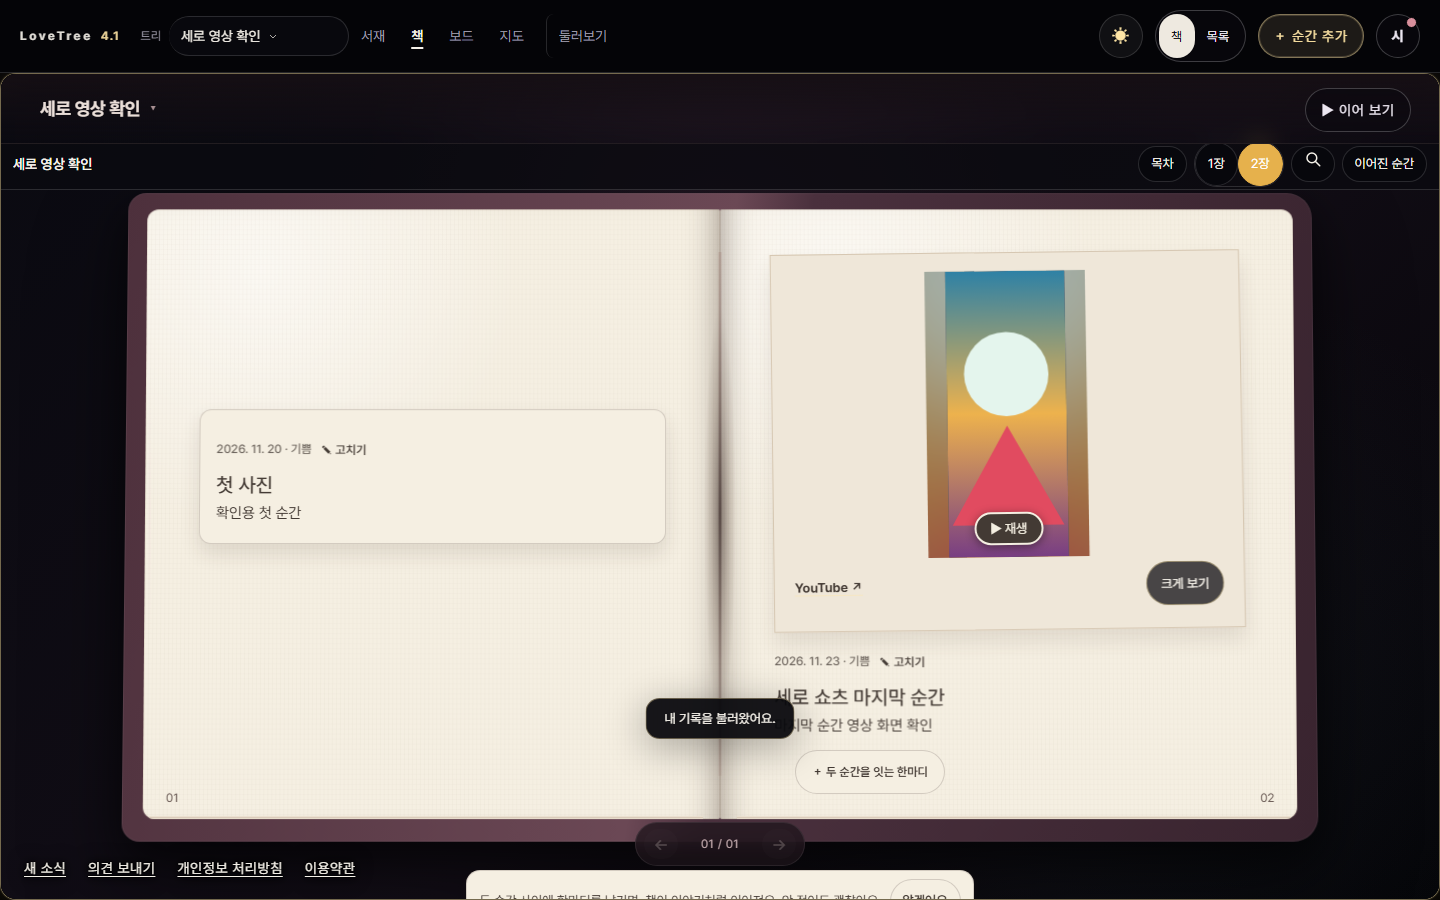
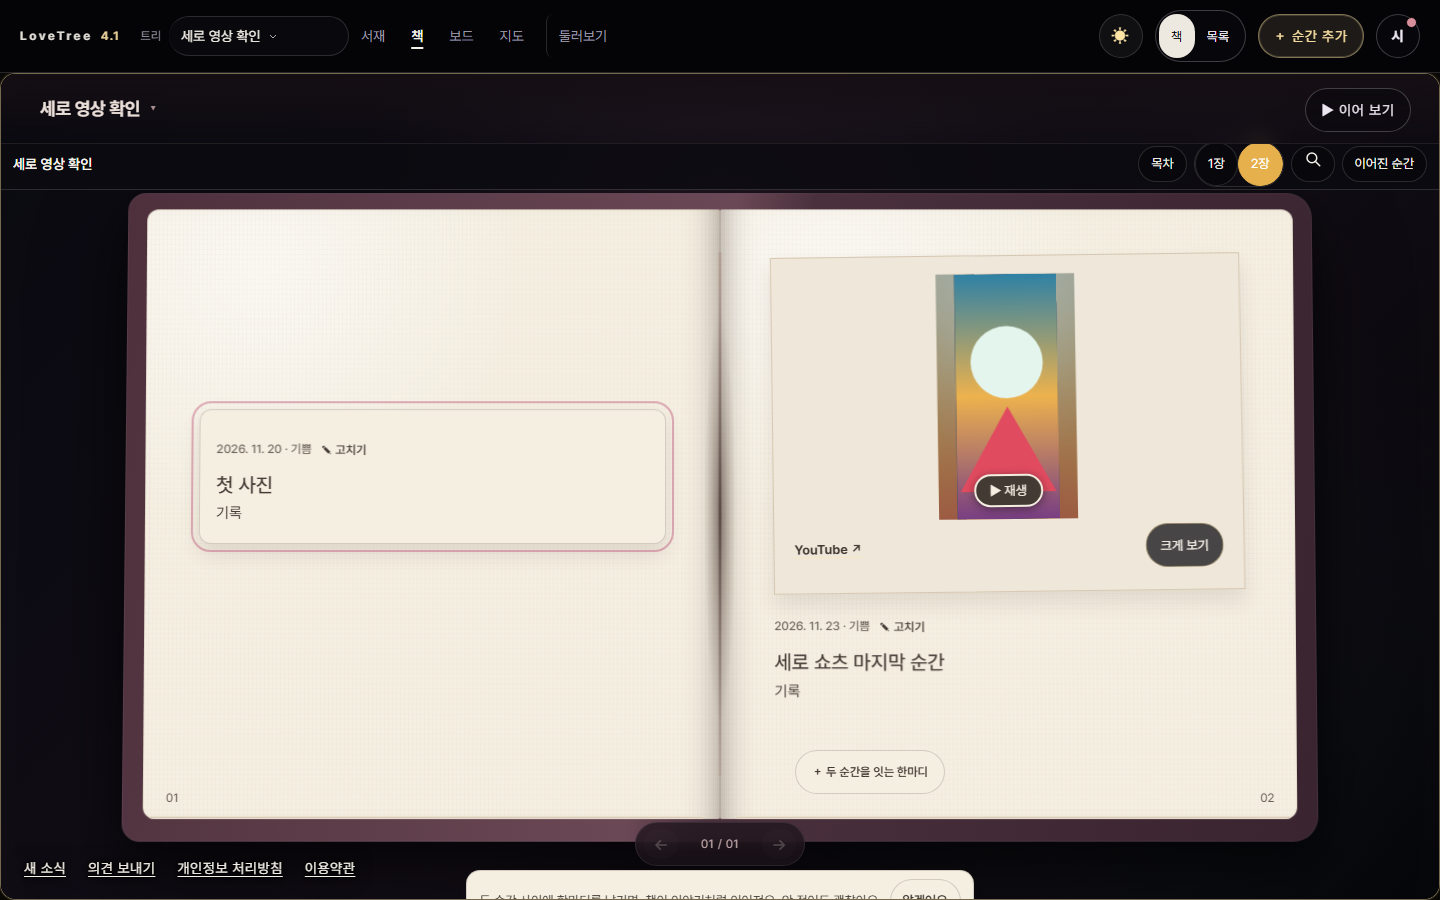
#1084 흐린 배경을 별도 그림으로 구성해 화면 규칙을 지킨다

diff --git a/public/v41/views/book/book-usability.css b/public/v41/views/book/book-usability.css
@@ -91,9 +91,10 @@ html[data-v41-screen=book] .yt-play img{display:block;width:100%;height:100%;obj
 html[data-v41-screen=book] .yt-play.is-vertical{width:auto;height:clamp(240px,52vh,400px);max-width:100%;aspect-ratio:9/16;margin:0 auto}
 /* #1084: 세로 쇼츠의 가로 썸네일에 내장된 회색 여백은 흐린 배경 뒤로 가린다. */
 html[data-v41-screen=book] .yt-play.is-remote-vertical{overflow:hidden;isolation:isolate}
-html[data-v41-screen=book] .yt-play.is-remote-vertical::before{content:"";position:absolute;inset:-18px;background-image:var(--lt-book-vertical-bg);background-size:cover;background-position:center;filter:blur(18px) brightness(.72);transform:scale(3.6);pointer-events:none}
+html[data-v41-screen=book] .yt-play.is-remote-vertical .yt-vertical-backdrop{position:absolute;inset:-18px;overflow:hidden;filter:blur(18px) brightness(.72);transform:scale(3.6);pointer-events:none}
 html[data-v41-screen=book] .yt-play.is-vertical img{object-fit:contain}
-html[data-v41-screen=book] .yt-play.is-remote-vertical img{object-fit:cover;clip-path:inset(0 13%)}
+html[data-v41-screen=book] .yt-play.is-remote-vertical > img{object-fit:cover;clip-path:inset(0 13%)}
+html[data-v41-screen=book] .yt-play.is-remote-vertical .yt-vertical-backdrop img{object-fit:cover;clip-path:none}
 html[data-v41-screen=book] .yt-play .yt-play-label{position:absolute;left:50%;bottom:12px;transform:translateX(-50%);white-space:nowrap;padding:7px 14px;border-radius:var(--lt-r-pill);border:2px solid var(--lt-paper);background:var(--lt-ink);color:var(--lt-paper);box-shadow:0 2px 10px rgba(0,0,0,.42);font-size:13px}
 html[data-v41-screen=book] .yt-placeholder{display:grid;place-items:center;width:100%;height:100%;background:var(--lt-paper);color:var(--lt-ink)}
 /* #635 PR B: 썸네일이 없거나 깨진 영상 칸은 제목 글 카드로 대신한다(회색·빈 상자 금지). 재생 단추 안에서 카드가 칸을 채운다. */

diff --git a/public/v41/media-preview.js b/public/v41/media-preview.js
@@ -305,7 +305,7 @@ function markup(url,title='',mediaMetadata=null,momentId='',context=null,momentM
  const body=auto
   // 내 기록: 썸네일을 처음부터 보여 준다(no-referrer·lazy). 재생 표시는 썸네일 전체를 덮는 단추라
   // 썸네일 아무 곳이나 눌러도 그 자리에서 재생한다. autoplay 는 누른 뒤 만들어지는 embed 주소에만 있다.
-  ?'<figure class="lt-yt-preview"'+(vertical?' style="--lt-vertical-thumb:url(&quot;'+esc(previewSrc)+'&quot;)"':'')+' data-lt-thumb-host><img src="'+esc(previewSrc)+'" alt="'+esc(title||'YouTube 영상 썸네일')+'"'+previewFallback+' referrerpolicy="no-referrer" loading="lazy" decoding="async"><button type="button" class="lt-yt-play" data-lt-play aria-label="바로 재생"><span aria-hidden="true">▶</span></button></figure>'+cached
+  ?'<figure class="lt-yt-preview" data-lt-thumb-host>'+(vertical?'<span class="lt-vertical-backdrop" aria-hidden="true"><img src="'+esc(previewSrc)+'" alt="" referrerpolicy="no-referrer" loading="lazy" decoding="async"></span>':'')+'<img src="'+esc(previewSrc)+'" alt="'+esc(title||'YouTube 영상 썸네일')+'"'+previewFallback+' referrerpolicy="no-referrer" loading="lazy" decoding="async"><button type="button" class="lt-yt-play" data-lt-play aria-label="바로 재생"><span aria-hidden="true">▶</span></button></figure>'+cached
   :(linkCard?linkCard:(canLoad?'<button type="button" data-lt-load>'+esc(m.loadLabel)+'</button>':'<span>'+esc(m.label)+'</span>')+cached);
  const status=compact?'':(auto?'재생을 누르면 여기서 바로 재생해요.':(canLoad?'불러오기를 누르면 원본 사이트에 연결됩니다.':'원본 사이트에서 확인할 수 있어요.'));
  // #393 2: 크게 보기 — 영상을 어두운 깔개 위 화면 가운데 크게 연다(바깥 클릭·Esc로 복귀).

diff --git a/public/v41/views/book/book-extra.js b/public/v41/views/book/book-extra.js
@@ -305,8 +305,8 @@ momentContent=function(m,compact=false){
     :'<img src="'+t(remoteThumb)+'" alt="'+t(safe.title||'YouTube 영상 썸네일')+'"'+thumbFallback+' referrerpolicy="no-referrer" loading="lazy" decoding="async">';
    // YouTube 출처는 링크 한 곳에만 남긴다.
    const piece='<div class="clipping moment" data-moment="'+t(safe.id)+'">'+
-    '<button type="button" class="yt-play'+(vertical?' is-vertical':'')+(vertical&&!thumb?' is-remote-vertical':'')+'"'+(vertical&&!thumb?' style="--lt-book-vertical-bg:url(&quot;'+t(remoteThumb)+'&quot;)"':'')+' data-lt-thumb-host data-yt-play="'+t(media.videoId)+'" data-yt-start="'+t(media.startSeconds||0)+'" data-yt-end="'+t(m.endSeconds||'')+'"'+(vertical?' data-yt-vertical="1"':'')+'>'+
-    face+
+    '<button type="button" class="yt-play'+(vertical?' is-vertical':'')+(vertical&&!thumb?' is-remote-vertical':'')+'"'+' data-lt-thumb-host data-yt-play="'+t(media.videoId)+'" data-yt-start="'+t(media.startSeconds||0)+'" data-yt-end="'+t(m.endSeconds||'')+'"'+(vertical?' data-yt-vertical="1"':'')+'>'+
+    (vertical&&!thumb?'<span class="yt-vertical-backdrop" aria-hidden="true"><img src="'+t(remoteThumb)+'" alt="" referrerpolicy="no-referrer" loading="lazy" decoding="async"></span>':'')+face+
     '<span class="yt-play-label">'+t(label)+'</span></button>'+
     '<div class="media-links"><a class="media-source-link" href="'+t(media.openUrl)+'" target="_blank" rel="noopener noreferrer" referrerpolicy="no-referrer">YouTube ↗</a>'+
     '<button type="button" data-yt-expand="'+t(safe.id)+'">크게 보기</button></div></div>';

diff --git a/public/v41/identity.css b/public/v41/identity.css
@@ -115,8 +115,8 @@ html[data-lt-theme=garden] .lt-media-body button{color:var(--lt-paper)}
 .lt-media[data-lt-vertical="1"] .lt-media-body{height:360px}
 /* #1084: 가로 썸네일 속 회색 여백을 세로 영상 주변에 재노출하지 않고 확대·흐림으로 채운다. */
 .lt-media[data-lt-vertical="1"] .lt-yt-preview{position:relative;width:auto;height:100%;max-width:100%;aspect-ratio:9/16;overflow:hidden;isolation:isolate}
-.lt-media[data-lt-vertical="1"] .lt-yt-preview::before{content:"";position:absolute;inset:-18px;background-image:var(--lt-vertical-thumb);background-size:cover;background-position:center;filter:blur(18px) brightness(.72);transform:scale(3.6);pointer-events:none}
-.lt-media[data-lt-vertical="1"] .lt-yt-preview img{position:relative;clip-path:inset(0 13%)}
+.lt-media[data-lt-vertical="1"] .lt-vertical-backdrop{position:absolute;inset:-18px;overflow:hidden;filter:blur(18px) brightness(.72);transform:scale(3.6);pointer-events:none}
+.lt-media[data-lt-vertical="1"] .lt-yt-preview > img{position:relative;clip-path:inset(0 13%)}
 .lt-media[data-lt-vertical="1"] .lt-media-body img{width:100%!important;height:100%!important;max-height:none!important;object-fit:cover!important}
 .lt-media[data-lt-vertical="1"] .lt-yt-frame{width:auto;height:100%;max-width:100%;aspect-ratio:9/16}
 .lt-media[data-lt-vertical="1"] .lt-media-body video{width:auto!important;height:100%!important;max-height:none!important;object-fit:contain!important}
